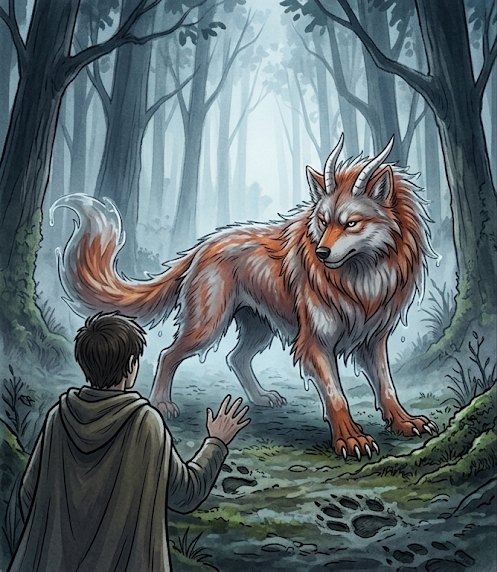
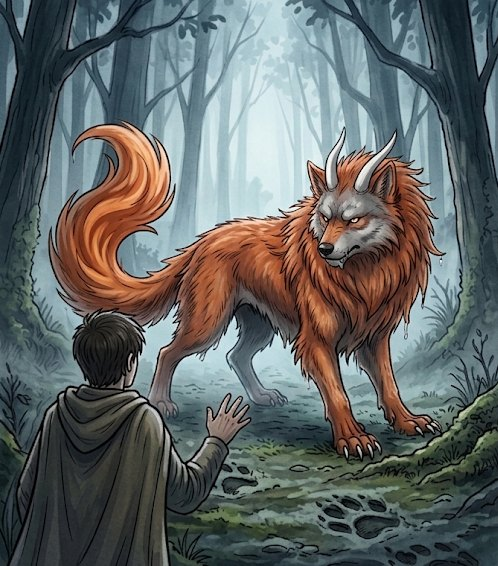
走るときは横向きの4コマで走る（Gemini製・17体）／挿絵を通常の絵のデザインに合わせる
・潜っている間、正面を向いて跳ねるだけだったのを、系統×段階ごとの横向きの走り4コマに
  人型・けものは足を交互に出して走り、スライム形は弾みながら進む（跳んでいる間は跳ねたコマ）
  当たり判定とジャンプは変えていない
・tools/cut_run.py：Geminiの走り4コマ（白背景・1列でも2×2でも）を切り抜いて足元をそろえる
・挿絵の直し：スライム第3章（星空のきらきらの体）、けもの第4章（オレンジのふさふさ）、
  第5章と救いの章（白い角・灰色の顔）、ヒトガタ♀の第2・3章（ピンクにリボン。♂は水色のまま h2m/h3m）

diff --git a/index.html b/index.html
@@ -1518,11 +1518,11 @@ const NV = { key: null, n: 1, i: 0, lines: [], typing: null, done: false, raf: 0
 
 /* 挿絵のファイル名。assets/story/{id}_a.jpg と _b.jpg
    第1章は共通（c1）。スライム s、けもの b、ヒトガタ h。救いの章は 0。
-   ヒトガタの人の姿の章（4・5・救い）は、育てた子に合わせて m / f の絵を使う */
+   ヒトガタの章（2〜5・救い）は、育てた子に合わせて m / f の絵を使う */
 function sceneId(key, n){
   if(n === 1) return "c1";
   const k = { slime: "s", beast: "b", human: "h" }[key];
-  const g = key === "human" && (n >= 4 || n === 0) ? (pet.line === "human_m" ? "m" : "f") : "";
+  const g = key === "human" && n !== 1 ? (pet.line === "human_m" ? "m" : "f") : "";   // ヒトガタは第2章から♂♀で絵が違う（♀はピンク）
   return k + n + g;
 }
 // 何文目から2枚目の絵に切り替えるか（書いていない章は半分のところ）
@@ -2061,8 +2061,11 @@ loadImg("spike3", "obst_03.png");   // 三本並びのトゲ
 loadImg("hang",   "obst_02.png");   // 天井から下がる岩 loadImg("sign",     "prop_05.png"); loadImg("chest", "prop_06.png");
 // Geminiに描いてもらった 小屋の背景と、進化した姿（系統×第2〜5段階）
 loadImg("hut", "hut_bg.png");
-for(const l of ["slime", "beast", "human_m", "human_f"])
+for(let k = 0; k < 4; k++) loadImg(`run_slime_1_${k}`, `run/slime_1_${k}.png`);   // 第1段階（どの系統も同じ）
+for(const l of ["slime", "beast", "human_m", "human_f"]){
   for(let n = 2; n <= 5; n++) loadImg(`evo_${l}_${n}`, `evo_${l}_${n}.png`);
+  for(let n = 2; n <= 5; n++) for(let k = 0; k < 4; k++) loadImg(`run_${l}_${n}_${k}`, `run/${l}_${n}_${k}.png`);
+}
 const ready = im => im && im.complete && im.naturalWidth > 0;
 
 // 中心x・接地y・高さを指定して絵を置く
@@ -2620,6 +2623,24 @@ function drawCreature(g, f, cx, baseY, h, opt = {}){
   const sx = opt.sx != null ? opt.sx : 1, sy = opt.sy != null ? opt.sy : 1;
   // 第2段階からはGeminiの絵。横幅をぽよんに合わせて、背の高い姿は上限で止める
   const ev = f.stage >= 2 ? IMG[`evo_${f.line}_${f.stage}`] : null;
+  // 走っている姿（Geminiの横向き4コマ）。大きさは正面の絵と同じ高さにそろえる
+  if(opt.run && ready(opt.run)){
+    let hh;
+    if(ready(ev)){
+      const base = (ready(IMG.s1) ? IMG.s1.naturalWidth / IMG.s1.naturalHeight : 1.3) * h;
+      let w = base * SIZE_UP[f.stage - 1] * 1.12;
+      hh = w * ev.naturalHeight / ev.naturalWidth;
+      if(f.line.indexOf("human") === 0 && f.stage >= 3) hh = h * [0, 0, 0, 1.25, 1.55, 1.75][f.stage] * SIZE_UP[f.stage - 1];
+      const cap = h * (opt.cap || 1.9) * SIZE_UP[f.stage - 1];
+      if(hh > cap) hh = cap;
+      hh *= 1.08;   // 横向きは体が細く見えるので、ほんの少し大きく
+    }else{
+      hh = h * SIZE_UP[f.stage - 1] * 1.25;
+    }
+    const w = hh * opt.run.naturalWidth / opt.run.naturalHeight;
+    g.drawImage(opt.run, cx - w * 0.45, baseY - hh, w, hh);
+    return;
+  }
   if(ready(ev)){
     const base = (ready(IMG.s1) ? IMG.s1.naturalWidth / IMG.s1.naturalHeight : 1.3) * h;
     let w = base * SIZE_UP[f.stage - 1] * 1.12;
@@ -2677,6 +2698,25 @@ function slimePose(P){
   return game.squashT > 0 ? IMG.s7 : IMG.s1;   // s2は足が生えているので使わない
 }
 const POSE_H = { s1:40, s3:54, s4:40, s5:44, s7:26, s9:38 };
+// 横向きに走る4コマ（assets/run/{系統}_{段階}_{0〜3}.png、第1段階は slime_1）。そろっていなければ null
+function runFrame(P){
+  if(game.mode !== "play") return null;
+  const key = pet.stage === 1 ? "slime_1" : `${pet.line}_${pet.stage}`;
+  const fr = [0, 1, 2, 3].map(k => IMG[`run_${key}_${k}`]);
+  if(!fr.every(ready)) return null;
+  const blob = pet.stage === 1 || pet.line === "slime";
+  if(!P.onGround){
+    const f = blob ? (P.vy < 0 ? fr[1] : fr[2]) : fr[1];
+    f._blobLift = 0;
+    return f;
+  }
+  if(blob && game.squashT > 0) return fr[3];
+  // 速さに合わせて足の回転を上げる（潜るほど速くなる）
+  const rate = (blob ? 7 : 9) + Math.min(5, (game.run ? game.run.cam : 0) / 4000);
+  const i = Math.floor(game.time * rate) % 4;
+  fr[i]._blobLift = blob ? [0, 5, 9, 0][i] : 0;
+  return fr[i];
+}
 
 function drawSlime(run){
   const P = run.P;
@@ -2701,6 +2741,14 @@ function drawSlime(run){
   }
 
   if(run.inv > 0 && Math.floor(game.time * 12) % 2 === 0) return;   // 無敵の間は点滅
+  const rf = runFrame(P);
+  if(rf){
+    // 走る絵があるときは、それを使う（地面では4コマを回し、跳んでいる間は跳ねたコマ）。
+    // スライム形は地面でも「ぽよん」と弾んで見えるよう、跳ねるコマだけ少し浮かせる（当たり判定は動かさない）
+    const lift = (P.onGround && rf._blobLift) ? rf._blobLift : 0;
+    drawCreature(ctx, pet, x, baseY + 3 - lift, 40, { run: rf });
+    return;
+  }
   const im = slimePose(P);
   const key = Object.keys(IMG).find(k => IMG[k] === im);
   if(pet.stage >= 2 && ready(IMG[`evo_${pet.line}_${pet.stage}`])){

diff --git a/tools/cut_run.py b/tools/cut_run.py
@@ -1,0 +1,74 @@
+# -*- coding: utf-8 -*-
+"""Geminiの「右向きに走る4コマ」（白背景。1列でも2×2でもよい）を1コマずつ切り抜く。
+   使い方: python cut_run.py 画像 出力名   → assets/run/出力名_0.png 〜 _3.png
+   並び順は 上の段の左から → 下の段の左から。足元の高さと体の中心をそろえ、同じ大きさの透過PNGにする。"""
+import sys, os
+from collections import deque
+import numpy as np
+from PIL import Image
+
+A = os.path.join(os.path.dirname(os.path.abspath(__file__)), "..", "assets", "run")
+os.makedirs(A, exist_ok=True)
+src, name = sys.argv[1], sys.argv[2]
+OUT_H = int(sys.argv[3]) if len(sys.argv) > 3 else 220
+im = np.array(Image.open(src).convert("RGB")).astype(int)
+h, w, _ = im.shape
+white = im.min(axis=2) > 232
+
+# 外周からつながった白だけを背景にする（白い服やハイライトは残す）
+bg = np.zeros((h, w), bool)
+q = deque()
+for x in range(w):
+    for y in (0, h - 1):
+        if white[y, x] and not bg[y, x]: bg[y, x] = True; q.append((y, x))
+for y in range(h):
+    for x in (0, w - 1):
+        if white[y, x] and not bg[y, x]: bg[y, x] = True; q.append((y, x))
+while q:
+    y, x = q.popleft()
+    for ny, nx in ((y+1, x), (y-1, x), (y, x+1), (y, x-1)):
+        if 0 <= ny < h and 0 <= nx < w and not bg[ny, nx] and white[ny, nx]:
+            bg[ny, nx] = True; q.append((ny, nx))
+fg = ~bg
+
+def bands(counts, minsize):
+    """0が続く所で区切って、中身のある区間を返す"""
+    res, start = [], None
+    for i, c in enumerate(counts):
+        if c > 0 and start is None: start = i
+        if c == 0 and start is not None:
+            if i - start >= minsize: res.append((start, i))
+            start = None
+    if start is not None and len(counts) - start >= minsize: res.append((start, len(counts)))
+    return res
+
+cells = []
+rows = bands(fg.sum(axis=1) > 2, h // 12)
+for r0, r1 in rows:
+    cols = bands(fg[r0:r1].sum(axis=0) > 2, w // 16)
+    for c0, c1 in cols:
+        sub = fg[r0:r1, c0:c1]
+        ys, xs = np.nonzero(sub)
+        cells.append((r0 + ys.min(), r0 + ys.max() + 1, c0 + xs.min(), c0 + xs.max() + 1))
+if len(cells) != 4:
+    print("コマ数が4ではありません:", len(cells), cells)
+cells = cells[:4]
+
+rgba = np.dstack([im.astype(np.uint8), np.where(fg, 255, 0).astype(np.uint8)])
+# 背景に接するふちを少しやわらげる
+edge = fg & (np.roll(bg, 1, 0) | np.roll(bg, -1, 0) | np.roll(bg, 1, 1) | np.roll(bg, -1, 1))
+m = 255 - im.min(axis=2)
+rgba[..., 3] = np.where(edge, np.clip((m - 12) * 4, 0, 255), rgba[..., 3]).astype(np.uint8)
+
+bw = max(c[3] - c[2] for c in cells); bh = max(c[1] - c[0] for c in cells)
+pad = 6
+for i, (y0, y1, x0, x1) in enumerate(cells):
+    canvas = Image.new("RGBA", (bw + pad * 2, bh + pad * 2), (0, 0, 0, 0))
+    piece = Image.fromarray(rgba[y0:y1, x0:x1])
+    cx = pad + (bw - (x1 - x0)) // 2
+    cy = pad + bh - (y1 - y0)          # 足元（下端）をそろえる
+    canvas.alpha_composite(piece, (cx, cy))
+    k = OUT_H / canvas.height
+    canvas = canvas.resize((max(1, round(canvas.width * k)), OUT_H), Image.LANCZOS)
+    canvas.save(os.path.join(A, f"{name}_{i}.png"))
+print("ok", name, len(cells), (bw, bh))
